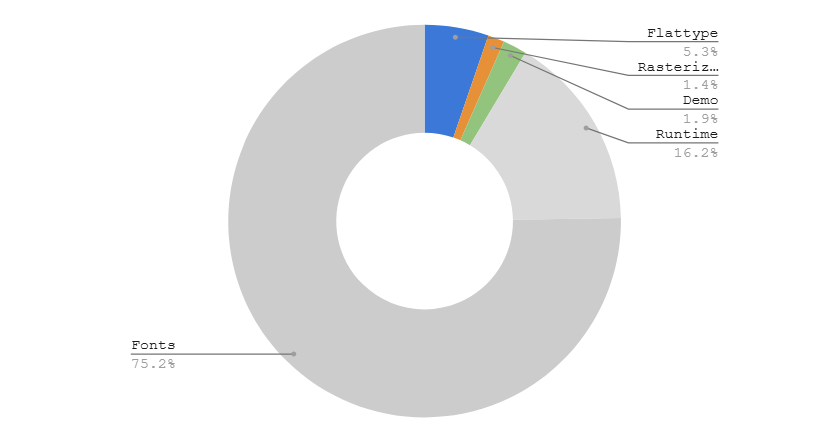
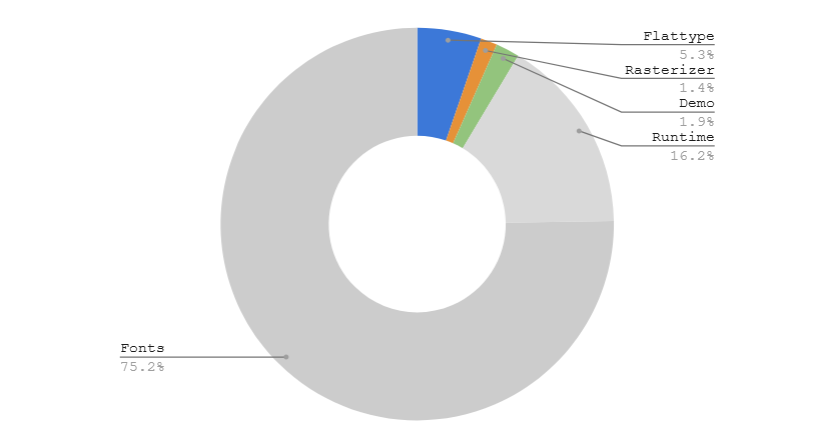
Update README.md

diff --git a/README.md b/README.md
@@ -7,76 +7,23 @@
 
 ## What is this?
 
-This demo shows rendering of TrueType vector font in a very resource constained embedded environment using Flattype. Flattype is a tiny OpenType pipeline written in pure Rust (shaper, glyph-outline extractor, and anti-aliased rasterizer) that fits inside an ESP32 with **320 KB of Ram and 4 MB of flash awith no PSRAM**. It can handle advanced typogaphy features like ligartures and complex scripts like Arabic, Indic, Khmer and Thai.
+**All the text you see in this demo is rendered live on the chip from TrueType fonts. There are no prerendered bitmaps, no glyph atlases, nothing pre-baked. All the text goes through the full OpenType shaper and rasterizer.**
+
+This demo shows rendering of TrueType vector fonts in a very resource-constrained embedded environment using Flattype. Flattype is a tiny OpenType pipeline written in pure Rust (shaper, glyph-outline extractor, and anti-aliased rasterizer) that fits inside an ESP32 with **320 KB of RAM, 4 MB of flash, and no PSRAM**. It can handle advanced typography features like ligatures and complex scripts like Arabic, Indic, Khmer, and Thai.
 
 This repository is a self-contained demo for the **Cheap Yellow Display** (ESP32-2432S028R), the popular ~$10 ESP32 dev board with a 320 × 240 ILI9341 LCD and an XPT2046 resistive touchscreen.
 
 It runs the full OpenType pipeline live on the chip:
 
-- **GSUB** substitution: ligatures, contextual rules, alternates, reverse contextual.
-- **GPOS** positioning: kerning, mark-to-base, mark-to-mark, cursive attachment.
-- **Bidi** (UAX #9) for mixed LTR/RTL text.
-- Script-specific shaping: Arabic joining, Devanagari and other Indic reordering, Khmer, Myanmar, Hangul, Thai, and the Universal Shaping Engine.
+- Bidirectional text ordering.
+- Substitution: ligatures, contextual rules, alternates, reverse contextual.
+- Positioning: kerning, mark-to-base, mark-to-mark, cursive attachment.
+- Script-specific shaping: Arabic joining, Devanagari and other Indic reordering, Khmer, Myanmar, Hangul, Thai, and universal shaping for less common scripts.
 - Both **TrueType (glyf)** and **PostScript (CFF)** outlines.
-- An anti-aliased, gamma-corrected scanline rasterizer with strip-based output to the LCD.
+- Anti-aliased, gamma-corrected rendering, drawn to the LCD in horizontal strips.
 
-The whole thing is reactive to a custom three-row touch gesture model: the top of the screen navigates between demos, the middle row navigates within a demo, and the bottom row is a swipe / slider area.
+Navigation works via a three-row touch gesture model: the top of the screen cycles between demos, the middle row navigates within a demo, and the bottom row is a swipe / slider area.
 
-## Hardware
-
-- **Cheap Yellow Display** (ESP32-2432S028R). Variants without the resistive touch panel will most likely not work.
-- 320 × 240 ILI9341 LCD over SPI2 at 80 MHz with DMA.
-- XPT2046 resistive touchscreen on SPI3 at 2 MHz.
-- Standard 4 MB flash, no PSRAM, **~320 KB internal SRAM**.
-
-## What's in the binary
-
-Total flashed image is **~2.6 MB**, of which **~1.9 MB is fonts** from Google Fonts (embedded as `include_bytes!` in the binary's read-only data) and the remaining ~645 KB is code + data. Sizes are from `xtensa-esp32-elf-size` and a per-symbol breakdown via `xtensa-esp32-elf-nm` on a release build.
-
-![Binary percentages](img/binary-donut-chart.png)
-
-**Code and data** (~480 KB total):
-
-| Component                                                          |         Size |
-|--------------------------------------------------------------------|-------------:|
-| **Flattype** code and data (bidi, shaper, renderer, rasterizer)    |  **~135 KB** |
-| Render path (flattener, rasterizer, pushing)                       |       ~35 KB |
-| **Text shaping + rendering + rasterizing subtotal**                |  **~170 KB** |
-| Demo logic (layout, touch, display, intro, the 5 demos, `main`)    |       ~30 KB |
-| ESP-IDF C runtime (FreeRTOS, drivers, ROM glue)                    |      ~165 KB |
-| Rust (`core`, `std` + `alloc`)                                     |      ~155 KB |
-| Backtrace machinery (`gimli`, `addr2line`, `rustc_demangle`, etc)  |       ~85 KB |
-| `compiler_builtins`, `esp-idf-hal`, `mipidsi`, other small crates  |        ~8 KB |
-| Misc rodata not attributable above (vtables, format strings, etc.) |       ~20 KB |
-| **Code + data subtotal**                                           |  **~635 KB** |
-| **Fonts (16 .ttf files embedded via include_bytes!)**              | **~1.93 MB** |
-| **Grand total**                                                    |  **~2.6 MB** |
-
-The headline number worth flagging: **the entire OpenType pipeline (shaping, outline extraction, flattening, and anti-aliased rasterizing) compiles to about 76 KB**. The largest single non-font cost is the ESP-IDF C runtime at ~147 KB, which is essentially fixed overhead for any Rust ESP32 program with `std` support, not specific to this demo.
-
-**Fonts** (read-only data, embedded in flash):
-
-| Font |         Size |
-|---|-------------:|
-| Noto Nastaliq Urdu |       517 KB |
-| Hind |       285 KB |
-| Noto Sans Arabic |       188 KB |
-| NotoEmoji (subsetted) |       186 KB |
-| Roboto Regular |       167 KB |
-| Noto Sans Khmer |       102 KB |
-| HennyPenny |        79 KB |
-| Bonbon |        70 KB |
-| SnowburstOne |        65 KB |
-| Peralta |        57 KB |
-| Almendra |        56 KB |
-| Ultra |        50 KB |
-| Assistant |        49 KB |
-| Droid Serif |        43 KB |
-| Architects Daughter |        37 KB |
-| Orbitron |        24 KB |
-| **Fonts subtotal** | **~1.93 MB** |
-
-All are static monochrome vector fonts (not variable fonts). The fonts were downloaded from Google Fonts and are not subsetted (except for emoji); For a real product they would be slimmed down.
 
 ## Demos
 
@@ -97,13 +44,13 @@ Six demos cycle with the **top row** of the touchscreen: left to go back, right 
   </thead>
   <tbody>
     <tr>
-      <td rowspan="4"><strong>Typography</strong><br>Five hand-picked typographic samples: Latin with ligatures, Nastaliq, Khmer, Devanagari, mixed Hebrew + Latin. The text is drawn in a light grey "ghost"; a slider on the bottom row reveals it character by character in black as you drag. Middle row cycles examples.</td>
+      <td rowspan="4"><strong>Typography</strong><br>Four hand-picked typographic samples: Latin with ligatures, Nastaliq, Khmer, Devanagari. The text is drawn in a light grey "ghost"; a slider on the bottom row reveals it character by character in black as you drag. Middle row cycles examples.</td>
       <td><img src="img/demo1c.jpg" width="280" alt="Latin with ligatures: 'The first conflict'"></td>
-      <td>Latin ligature reveal: <code>fi</code>, <code>ct</code>, <code>st</code> recombine as the slider crosses each glyph.</td>
+      <td>Latin ligature reveal: <code>Th</code>, <code>fi</code>, <code>st</code>, <code>fl</code>, and <code>ct</code> combine into ligatures as the slider crosses each glyph.</td>
     </tr>
     <tr>
       <td><img src="img/demo1b.jpg" width="280" alt="Nastaliq Urdu sample"></td>
-      <td>Nastaliq's diagonal vertical stacking, one of the most demanding shapings around, live on a $10 board.</td>
+      <td>Nastaliq's diagonal vertical stacking, considered one of the most demanding scripts for shaping.</td>
     </tr>
     <tr>
       <td><img src="img/demo1a.jpg" width="280" alt="Khmer sample"></td>
@@ -116,14 +63,14 @@ Six demos cycle with the **top row** of the touchscreen: left to go back, right 
     <tr>
       <td rowspan="2"><strong>Latin text</strong><br>A long Lorem Ipsum paragraph rendered in nine display fonts at variable size. Middle row taps switch font; the bottom row swipe scales 14–120 px continuously.</td>
       <td><img src="img/demo2a.jpg" width="280" alt="Lorem Ipsum in a serif face"></td>
-      <td>Word wrapping, kerning, and contextual substitutions recomputed every frame as the size changes.</td>
+      <td>Word wrapping, kerning, and contextual substitutions.</td>
     </tr>
     <tr>
       <td><img src="img/demo2b.jpg" width="280" alt="Lorem Ipsum in a handwritten display face"></td>
-      <td>Deliberately weird display faces (Bonbon, Peralta, Henny Penny…) show the shaper isn't only happy with system Latin.</td>
+      <td>Deliberately weird display faces (Bonbon, Peralta, Henny Penny…) show the shaper isn't only happy with standard serif and sans-serif fonts.</td>
     </tr>
     <tr>
-      <td rowspan="3"><strong>Exotic text</strong><br>The same Lorem in Arabic, Devanagari, and Hebrew. Middle row cycles scripts; bottom row swipe scales size.</td>
+      <td rowspan="3"><strong>Complex scripts</strong><br>The same Lorem in Arabic, Devanagari, and Hebrew. Middle row cycles scripts; bottom row swipe scales size.</td>
       <td><img src="img/demo3a.jpg" width="280" alt="Arabic Lorem Ipsum"></td>
       <td>Cursive joining: each letter takes initial/medial/final/isolated forms depending on its neighbours, all decided live.</td>
     </tr>
@@ -133,17 +80,17 @@ Six demos cycle with the **top row** of the touchscreen: left to go back, right 
     </tr>
     <tr>
       <td><img src="img/demo3c.jpg" width="280" alt="Hebrew Lorem Ipsum"></td>
-      <td>Bidirectional layout: RTL Hebrew interleaved with LTR Latin punctuation and numerals.</td>
+      <td>Right-to-left layout, with Latin punctuation and digits embedded inline (live bidi).</td>
     </tr>
     <tr>
-      <td><strong>Emoji</strong><br>A randomly-shuffled run of ~250 colour emoji. Middle row tap reshuffles; bottom row swipe scales.</td>
+      <td><strong>Emoji</strong><br>A randomly shuffled run of ~250 colour emoji. Middle row tap reshuffles; bottom row swipe scales.</td>
       <td><img src="img/demo4.jpg" width="280" alt="Grid of emoji glyphs"></td>
-      <td>Emoji glyphs are very curve-heavy: a single 90 px emoji can flatten to ~900 line segments. Stresses the rasterizer's per-glyph allocation path against a tight no-PSRAM heap.</td>
+      <td>Emoji glyphs are very curve-heavy: a single 90 px emoji can flatten to ~900 line segments. This stresses the rasterizer's per-glyph allocation.</td>
     </tr>
     <tr>
       <td><strong>Random char</strong><br>One large character at 90 px, sampled from a pool of decorative Latin faces. Bottom row scrolls through letters and fonts deterministically.</td>
       <td><img src="img/demo5.jpg" width="280" alt="Large lowercase g with construction arrows"></td>
-      <td>Worst-case rasterizer load at full glyph size, plus the most direct way to flip through the display fonts.</td>
+      <td>Swapping fonts is essentially free. Fonts take almost no memory in RAM, so multiple fonts can be held in memory at the same time. This makes switching between fonts as fast as rendering different text from the same font.</td>
     </tr>
     <tr>
       <td><strong>Colour on dark</strong><br>A short title rendered with per-glyph colour over a dark background.</td>
@@ -153,6 +100,67 @@ Six demos cycle with the **top row** of the touchscreen: left to go back, right 
   </tbody>
 </table>
 
+
+## Hardware
+
+- **Cheap Yellow Display** (ESP32-2432S028R). Variants without the resistive touch panel will most likely not work.
+- 320 × 240 ILI9341 LCD over SPI2 at 80 MHz with DMA.
+- XPT2046 resistive touchscreen on SPI3 at 2 MHz.
+- Standard 4 MB flash, no PSRAM, **~320 KB internal SRAM**.
+
+
+## Performance
+
+Stage-by-stage timings measured on the CYD. **Shaping** happens once when starting the demo or when changing the text; all other steps run on every font-size change.
+
+All measurements are with smallest font size and maximum number of visible glyphs. 13 lines of text with approx. 200-800 glyphs (depending on font and script).
+
+- **Refresh subtotal** = rendering + rasterizing + pushing
+- **Total** = refresh + shaping (the cost of the first frame after a text change)
+
+| Stage                | Single glyph |          Latin |     Arabic | Devanagari |     Hebrew |      Emoji |
+|----------------------|-------------:|---------------:|-----------:|-----------:|-----------:|-----------:|
+| Number of glyphs     |            1 |        360-548 |        809 |        618 |        623 |        208 |
+| **Shaping**          |         0 ms |       12-44 ms |      90 ms |     215 ms |      34 ms |       8 ms |
+| Line-breaking        |         1 ms |        7-10 ms |      14 ms |      14 ms |      13 ms |       0 ms |
+| Rendering            |         0 ms |      25-100 ms |      51 ms |      25 ms |      19 ms |      93 ms |
+| Flattening           |         0 ms |       13-65 ms |      37 ms |      21 ms |      14 ms |      56 ms |
+| Rasterizing          |       1-2 ms |      35-190 ms |     130 ms |     112 ms |      80 ms |     214 ms |
+| Pushing              |        18 ms |          18 ms |      19 ms |      19 ms |      18 ms |      19 ms |
+| Other                |         0 ms |           3 ms |       4 ms |       3 ms |       2 ms |       2 ms |
+| **Refresh subtotal** |    **21 ms** | **130-340 ms** | **258 ms** | **206 ms** | **148 ms** | **388 ms** |
+| **Total**            |    **21 ms** | **145-370 ms** | **348 ms** | **421 ms** | **182 ms** | **396 ms** |
+
+These figures are a first pass, not a ceiling. Performance has already been tuned, but there's headroom to do better.
+
+## What's in the binary
+
+Total flashed image is **~2.6 MB**, of which **~1.9 MB is fonts** from Google Fonts (embedded as `include_bytes!` in the binary's read-only data) and the remaining ~480 KB is code + data. Sizes are from `xtensa-esp32-elf-size` and a per-symbol breakdown via `xtensa-esp32-elf-nm` on a release build.
+
+![Binary percentages](img/binary-donut-chart.png)
+
+**Code and data** (~480 KB total):
+
+| Component                                                          |         Size |
+|--------------------------------------------------------------------|-------------:|
+| **Flattype** code and data (bidi, shaper, renderer, rasterizer)    |  **~135 KB** |
+| Render path (flattener, rasterizer, pushing)                       |       ~35 KB |
+| **Text shaping + rendering + rasterizing subtotal**                |  **~170 KB** |
+| Demo logic (layout, touch, display, intro, the 6 demos, `main`)    |       ~30 KB |
+| ESP-IDF C runtime (FreeRTOS, drivers, ROM glue)                    |      ~145 KB |
+| Rust (`core`, `std` + `alloc`)                                     |      ~155 KB |
+| Backtrace machinery (`gimli`, `addr2line`, `rustc_demangle`, etc)  |       ~85 KB |
+| `compiler_builtins`, `esp-idf-hal`, `mipidsi`, other small crates  |        ~8 KB |
+| Misc rodata not attributable above (vtables, format strings, etc.) |       ~20 KB |
+| **Code + data subtotal**                                           |  **~480 KB** |
+| **Fonts (16 .ttf files embedded via include_bytes!)**              | **~1.93 MB** |
+| **Grand total**                                                    |  **~2.6 MB** |
+
+The headline number worth flagging: **the entire OpenType pipeline (shaping, outline extraction, flattening, and anti-aliased rasterizing) compiles to about 170 KB**. The largest single non-font cost is the ESP-IDF C runtime at ~145 KB, which is essentially fixed overhead for any Rust ESP32 program with `std` support, not specific to this demo.
+
+**Fonts** (read-only data, embedded in flash): Noto Nastaliq Urdu (517 KB), Hind (285 KB), Noto Sans Arabic (188 KB), NotoEmoji subsetted (186 KB), Roboto Regular (167 KB), Noto Sans Khmer (102 KB), Henny Penny (79 KB), Bonbon (70 KB), SnowburstOne (65 KB), Peralta (57 KB), Almendra (56 KB), Ultra (50 KB), Assistant (49 KB), Droid Serif (43 KB), Architects Daughter (37 KB), and Orbitron (24 KB). **Fonts subtotal: ~1.93 MB.**
+
+All are static monochrome vector fonts (not variable fonts). The fonts were downloaded from Google Fonts and are not subsetted (except for emoji); for a real product they would be slimmed down.
 
 ## Credits
 